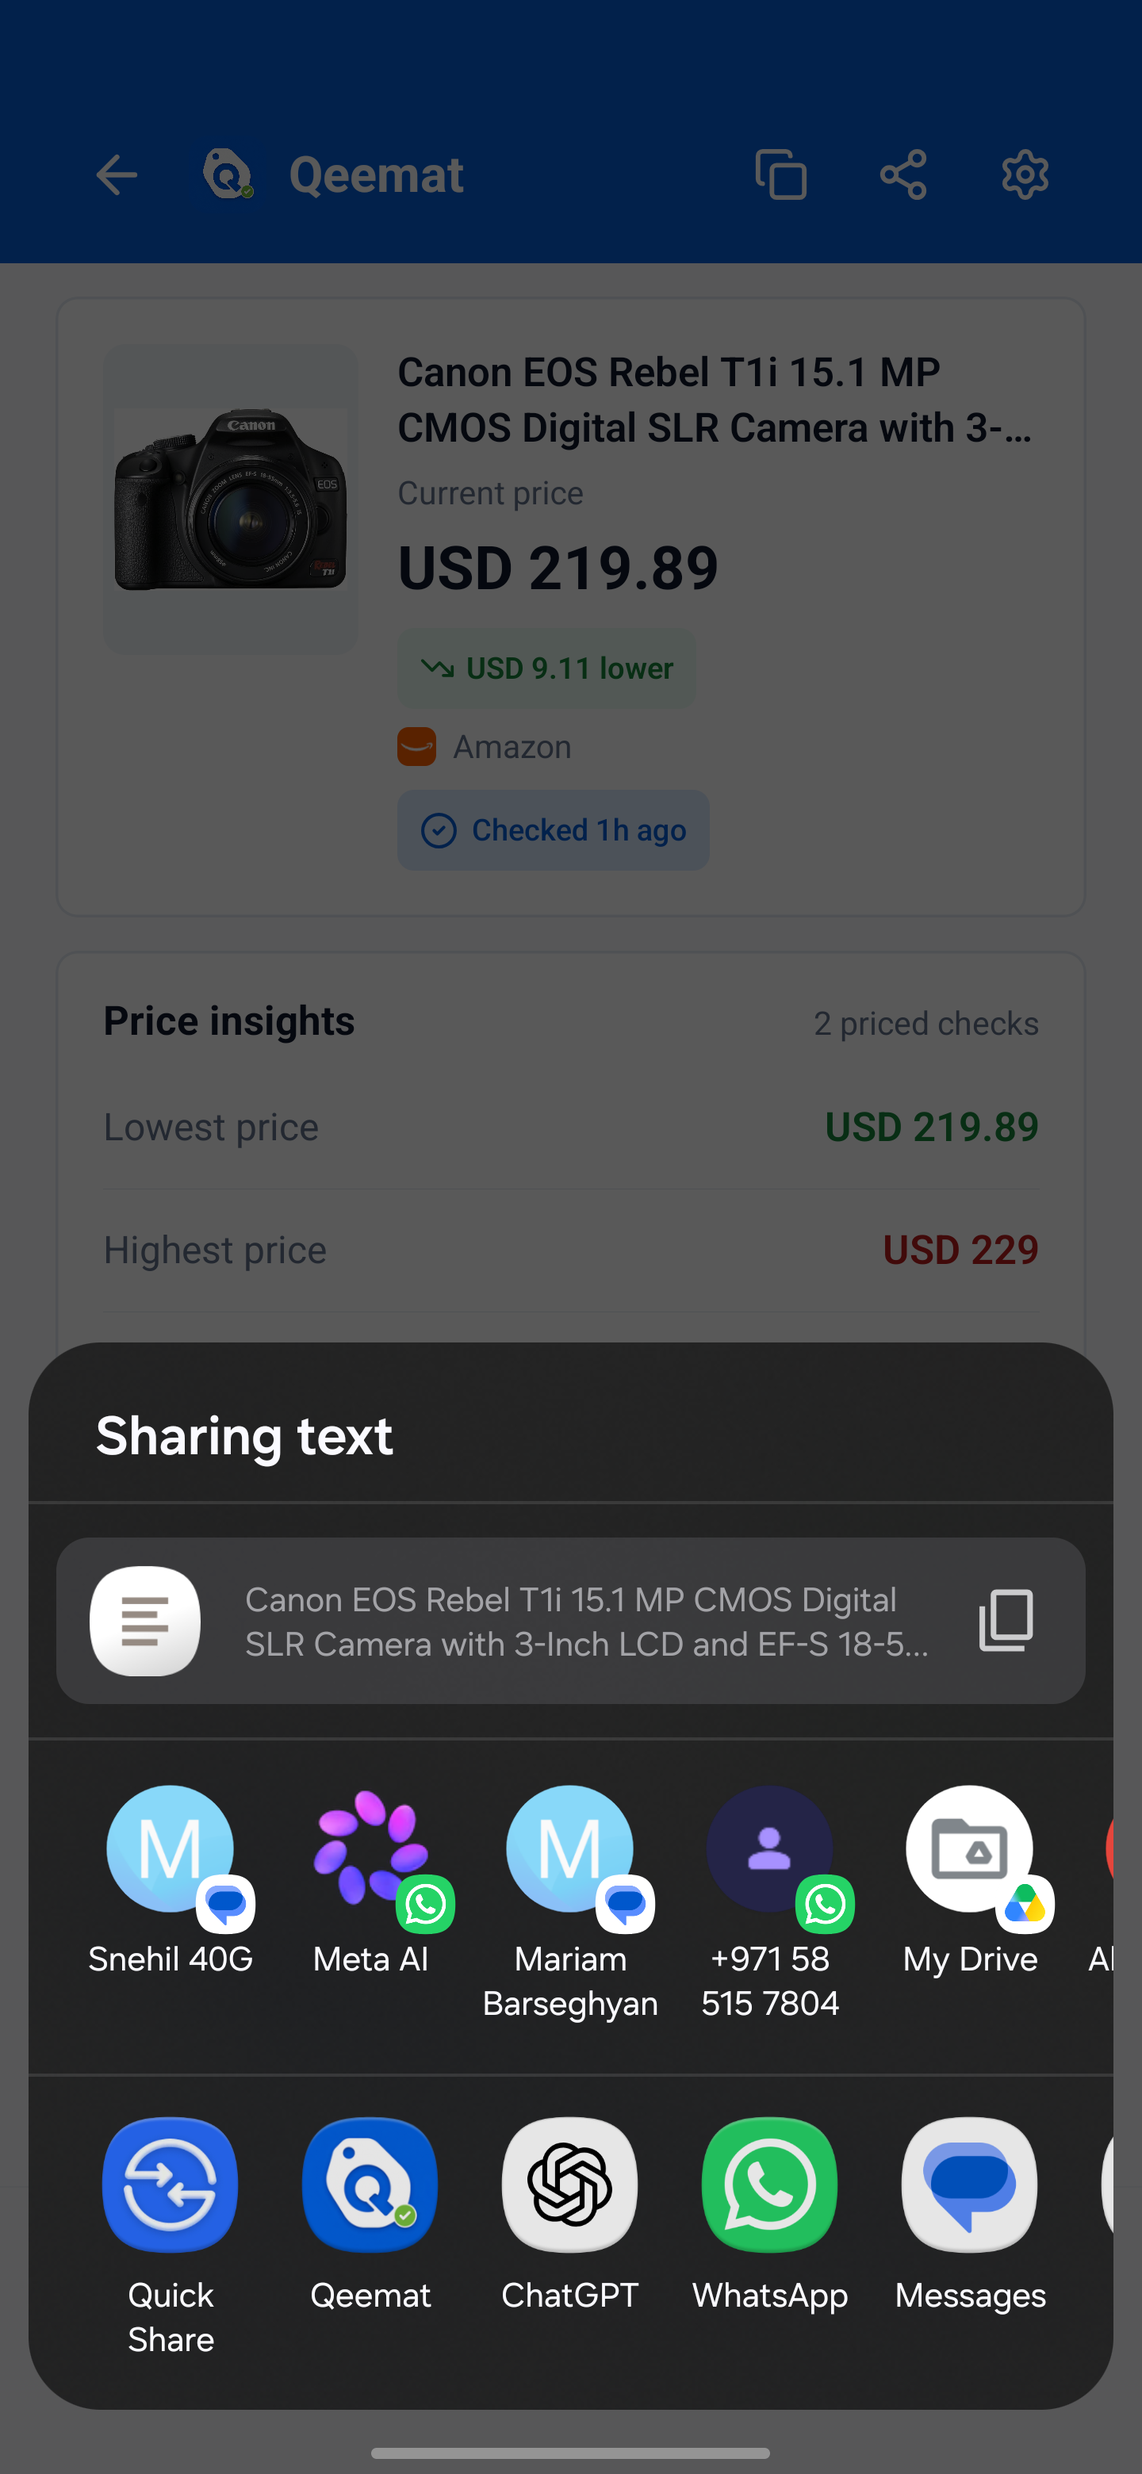
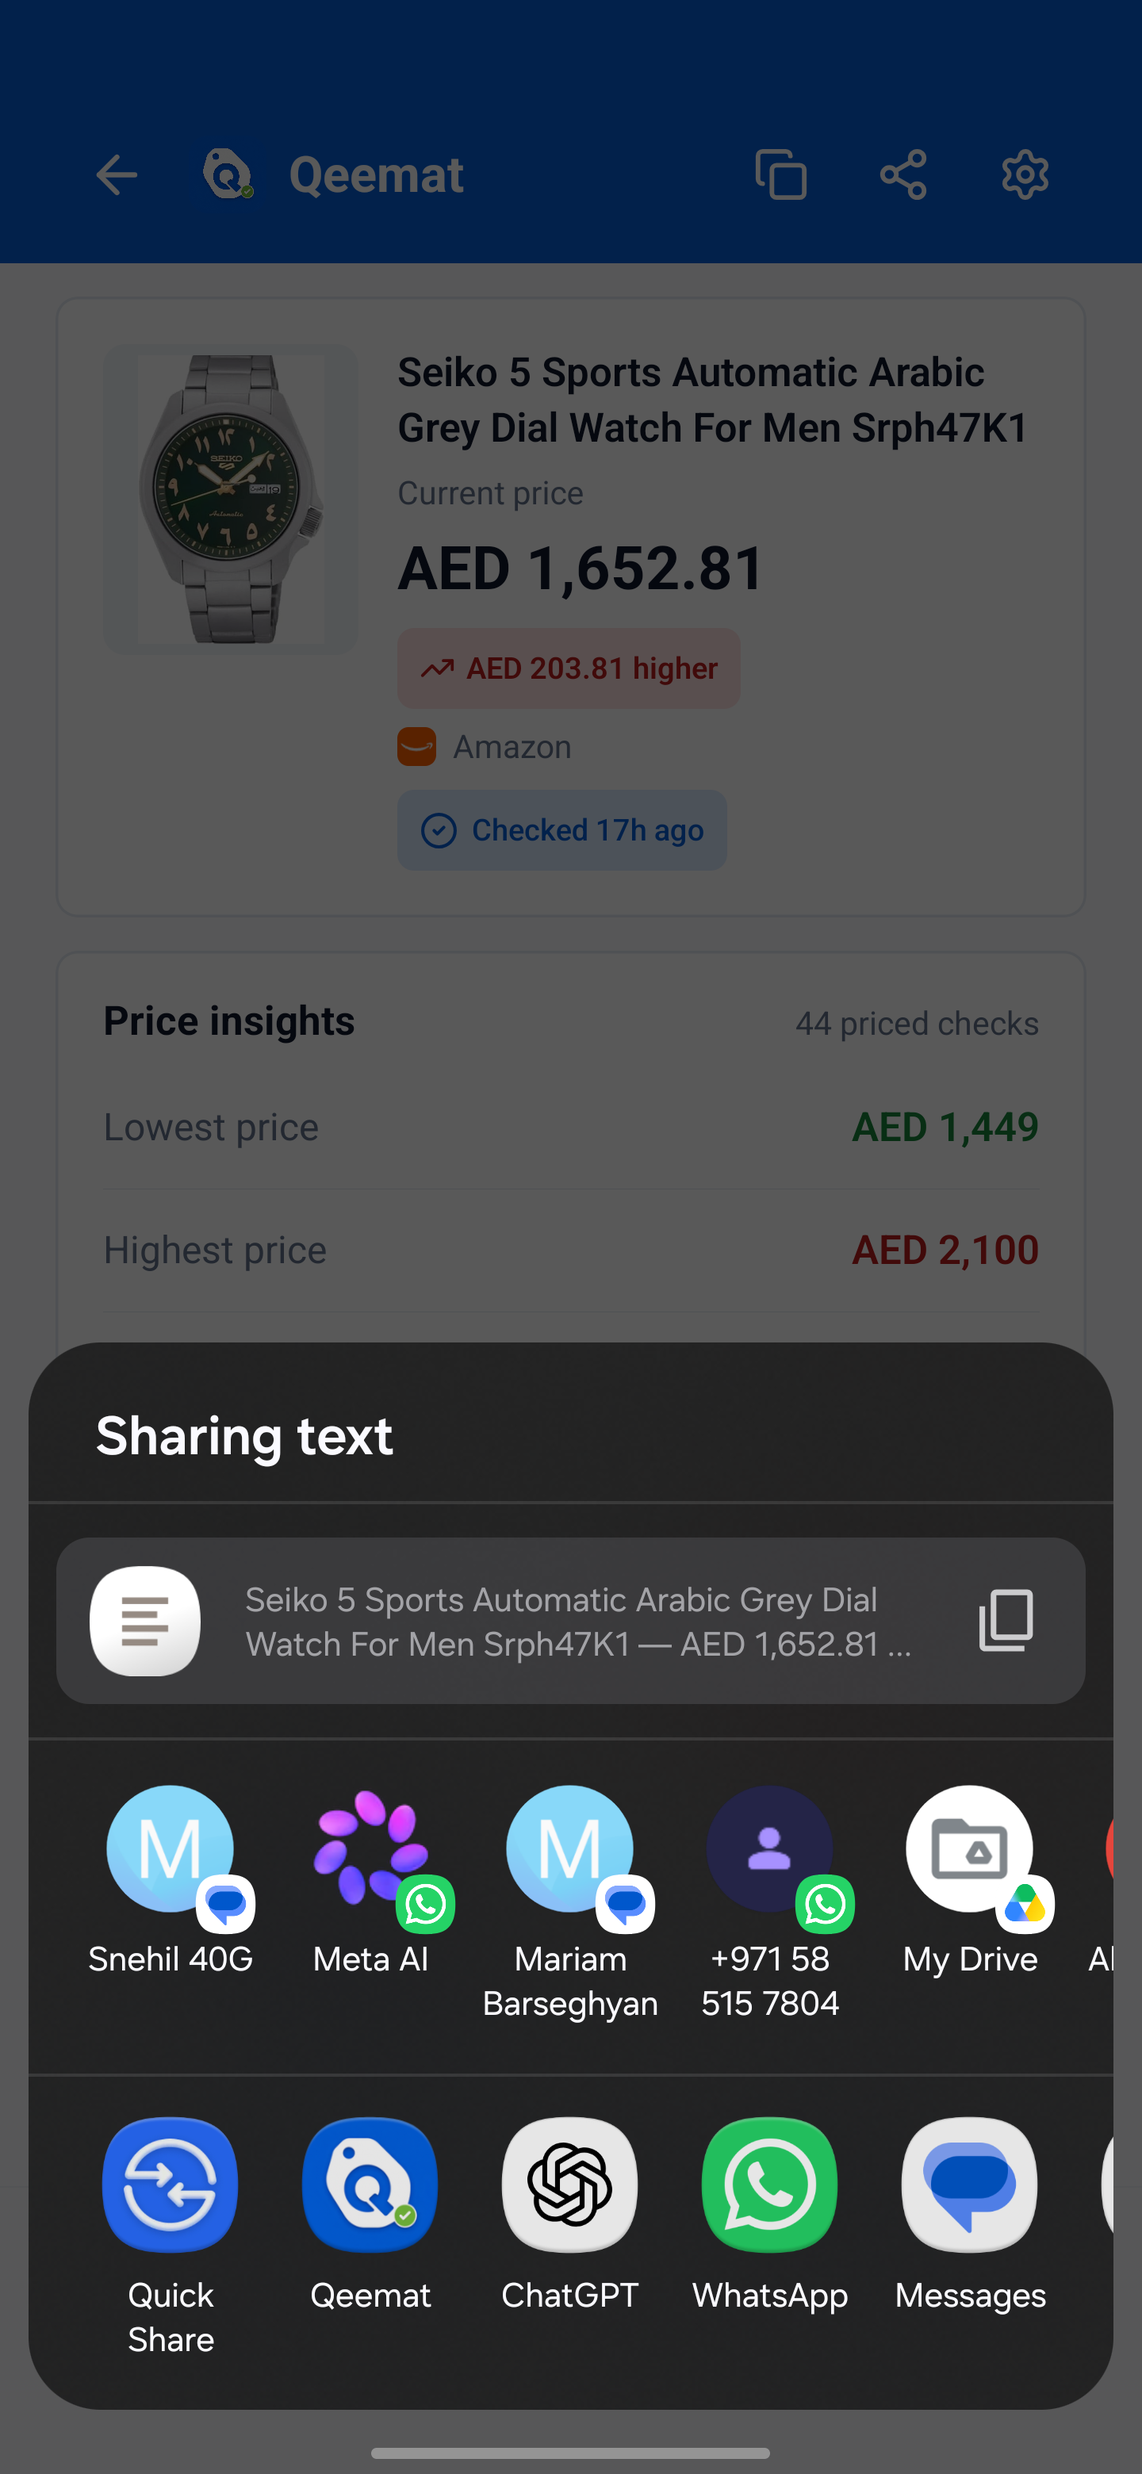
feat: label high and low prices on the chart

diff --git a/src/components/PriceChart.tsx b/src/components/PriceChart.tsx
@@ -137,6 +137,29 @@ export function PriceChart({ snapshots, currency }: PriceChartProps) {
           onPress={(event) => selectPointAt(event.nativeEvent.locationX)}
           style={styles.canvas}
         >
+          {max > min && chartSize.height > 0 ? (
+            <View pointerEvents="none" style={styles.priceLabels}>
+              {[
+                { key: 'high', y: padding },
+                { key: 'mid', y: height / 2 },
+                { key: 'low', y: height - padding }
+              ].map((tick) => {
+                const scale = Math.min(chartSize.width / width, chartSize.height / height);
+                const offset = (chartSize.height - height * scale) / 2;
+                const top = Math.max(0, Math.min(chartSize.height - 14, offset + tick.y * scale - 7));
+                const value = tick.key === 'high' ? max : tick.key === 'low' ? min : Math.round((max + min) / 2);
+                return (
+                  <AppText
+                    key={tick.key}
+                    muted
+                    style={[styles.axisPrice, { top }]}
+                  >
+                    {formatPrice(value, currency)}
+                  </AppText>
+                );
+              })}
+            </View>
+          ) : null}
         <Svg pointerEvents="none" viewBox={`0 0 ${width} ${height}`} width="100%" height="100%">
           <Defs>
             <LinearGradient id="priceFill" x1="0" y1="0" x2="0" y2="1">
@@ -213,18 +236,7 @@ export function PriceChart({ snapshots, currency }: PriceChartProps) {
         <AppText muted style={styles.axisLabel}>{formatAxisDate(points[0].checkedAt)}</AppText>
         <AppText muted style={styles.axisLabel}>{formatAxisDate(points[points.length - 1].checkedAt)}</AppText>
       </View>
-      {max > min ? (
-        <View style={styles.rangeRow}>
-          <View style={styles.rangeItem}>
-            <View style={[styles.rangeSwatch, styles.rangeHighSwatch]} />
-            <AppText muted style={[styles.rangeText, styles.rangeHighText]}>High {formatPrice(max, currency)}</AppText>
-          </View>
-          <View style={styles.rangeItem}>
-            <View style={[styles.rangeSwatch, styles.rangeLowSwatch]} />
-            <AppText muted style={[styles.rangeText, styles.rangeLowText]}>Low {formatPrice(min, currency)}</AppText>
-          </View>
-        </View>
-      ) : null}
+
       <AppText muted style={styles.hint}>Only points where the price changed are plotted. Dashed lines mark the high and low; drag across the chart to scrub through them; tap a point to inspect it.</AppText>
     </View>
   );
@@ -348,14 +360,15 @@ const styles = StyleSheet.create({
     fontSize: 12,
     textAlign: 'right'
   },
-  rangeRow: { flexDirection: 'row', alignItems: 'center', gap: 16, marginTop: 6 },
-  rangeItem: { flexDirection: 'row', alignItems: 'center', gap: 6 },
-  rangeSwatch: { width: 14, height: 2, borderRadius: 1 },
-  rangeHighSwatch: { backgroundColor: colors.red },
-  rangeLowSwatch: { backgroundColor: colors.green },
-  rangeText: { fontSize: 12 },
-  rangeHighText: { color: colors.red },
-  rangeLowText: { color: colors.green },  canvas: {
+  priceLabels: { ...StyleSheet.absoluteFillObject, alignItems: 'flex-end', justifyContent: 'flex-start' },
+  axisPrice: {
+    position: 'absolute',
+    right: 2,
+    backgroundColor: colors.surface,
+    borderRadius: 3,
+    paddingHorizontal: 3,
+    fontSize: 10
+  },  canvas: {
     height: 172
   },
   axis: {

diff --git a/src/components/__tests__/PriceChart.test.tsx b/src/components/__tests__/PriceChart.test.tsx
@@ -125,15 +125,22 @@ describe('PriceChart', () => {
     // Three price levels (10,000 -> 9,000 -> 10,500), not six checks.
     expect(tree!.root.findAllByType(Circle)).toHaveLength(3);
   });
-  it('marks the high and low with dashed guide lines and a range readout', () => {
+  it('marks the high and low with dashed guide lines and on-chart price labels', () => {
     let tree: renderer.ReactTestRenderer;
     act(() => { tree = renderer.create(<PriceChart snapshots={snapshots} currency="AED" />); });
+    act(() => {
+      tree!.root.findByProps({ accessibilityLabel: 'Price history chart' }).props.onLayout({
+        nativeEvent: { layout: { width: 320, height: 172 } }
+      });
+    });
 
     const guides = tree!.root.findAllByType(Line).filter((line) => line.props.strokeDasharray === '4 5');
     expect(guides).toHaveLength(2);
     expect(guides.map((line) => line.props.stroke)).toEqual([colors.red, colors.green]);
-    expect(renderedText(tree!)).toContain('High AED 105');
-    expect(renderedText(tree!)).toContain('Low AED 90');
+    const labelText = tree!.root.findAllByType(AppText).map((node) => [node.props.children].flat().join(''));
+    expect(labelText).toContain('AED 105');
+    expect(labelText).toContain('AED 97.50');
+    expect(labelText).toContain('AED 90');
   });
   it('uses the shared direction colors for chart points', () => {
     let tree: renderer.ReactTestRenderer;

diff --git a/design-qa.md b/design-qa.md
@@ -58,7 +58,7 @@ The product detail page now follows the Watchlist language instead of a separate
 - **About this item** is collapsed by default behind a summary disclosure (e.g. "Brand: ADIDAS · Store category: Short-sleeve jersey"); expanding shows the full field rows.
 - **Price snapshots** show the three most recent groups with **Show all N price groups** (and Show fewer), keeping the first view short while retaining full history. Consecutive failed checks with the same error collapse behind **+N earlier failed checks**, matching the existing no-change grouping; expanding reveals each failure.
 - Removed the legacy 18-unit top margin from the detail captions; spacing inside the summary now follows the same 4-unit stack used by Watchlist cards.
-- The price chart now supports **horizontal drag-to-scrub**: dragging across the chart updates the selected price, date and change badge continuously; tapping still selects a point, and vertical page scroll is unaffected. [chart scrub](docs/assets/product-detail-2026-11-14/chart-scrub.png)\n- The chart plots **one point per actual price level** — repeated checks at the same price no longer create scrubbing stops — so dragging jumps only between dates where the price changed. [change-only chart](docs/assets/product-detail-2026-11-14/chart-change-points.png); when fewer than two price levels exist it explains that instead.\n- Stock-style **high/low dashed guide lines** now mark the range, with a compact `High … / Low …` readout under the chart. [chart guides](docs/assets/product-detail-2026-11-14/chart-guides.png)\n- The detail banner has a separate **Share product** action that opens the native Android share sheet with a message ending in **Tracked with Qeemat**; Copy product link still copies only the URL. [native share sheet](docs/assets/product-detail-2026-11-14/native-share-sheet.png)\n- Evidence: [before](docs/assets/product-detail-2026-11-14/before.png), [after](docs/assets/product-detail-2026-11-14/after.png), [expanded fields](docs/assets/product-detail-2026-11-14/about-expanded.png), [collapsed failed checks](docs/assets/product-detail-2026-11-14/collapsed-failures.png).
+- The price chart now supports **horizontal drag-to-scrub**: dragging across the chart updates the selected price, date and change badge continuously; tapping still selects a point, and vertical page scroll is unaffected. [chart scrub](docs/assets/product-detail-2026-11-14/chart-scrub.png)\n- The chart plots **one point per actual price level** — repeated checks at the same price no longer create scrubbing stops — so dragging jumps only between dates where the price changed. [change-only chart](docs/assets/product-detail-2026-11-14/chart-change-points.png); when fewer than two price levels exist it explains that instead.\n- Stock-style **high/low dashed guide lines** mark the range, and small **price labels sit directly on the chart** at the high, mid and low positions. The duplicate High/Low readout under the chart was removed because the Price insights card already carries max/min. [on-chart price labels](docs/assets/product-detail-2026-11-14/chart-price-labels.png)\n- The detail banner has a separate **Share product** action that opens the native Android share sheet with a message ending in **Tracked with Qeemat**; Copy product link still copies only the URL. [native share sheet](docs/assets/product-detail-2026-11-14/native-share-sheet.png)\n- Evidence: [before](docs/assets/product-detail-2026-11-14/before.png), [after](docs/assets/product-detail-2026-11-14/after.png), [expanded fields](docs/assets/product-detail-2026-11-14/about-expanded.png), [collapsed failed checks](docs/assets/product-detail-2026-11-14/collapsed-failures.png).
 - Verified on the Samsung SM-S928B release build: first view now shows the summary, insights and the start of the price chart without scrolling; About expands and collapses; Show all snapshots reveals the full grouped list.
 **Palette follow-up (14 November 2026):** price rises switched from amber to red following the Activity review (the amber badge read as orange). `colors.red`/`redSoft` now use `#B91C1C`/`#FEE2E2` — the same red is used for negative price movement and failures, while amber remains reserved for out-of-stock warnings. This supersedes the 13 November amber-rise notes above. Red on red-soft measures 5.30:1 (WCAG AA), and the change applies to `PriceDirectionBadge`, Activity, Watchlist/Search cards, product-detail snapshots and the chart legend. [Watchlist rise badge](docs/assets/activity-redesign/price-rise-red-watchlist.png)
 

diff --git a/docs/current-state.md b/docs/current-state.md
@@ -62,7 +62,7 @@ The site registry is `src/domain/sites.ts`. It controls hostnames, enabled statu
 
 - The add flow detects supported stores, replaces the store list with a single detected-store status for valid links, and brings the parsed result into view before saving. The full supported-store list is collapsed behind a disclosure below `Find product`. As soon as a product is parsed, the flow checks the watchlist: an exact duplicate shows an inline **Duplicate product** warning with an **Open product** action and disables **Confirm Tracking**; a different option of an already-tracked product shows an **Adding another option** notice and is saved as a separate tracker. A save-time duplicate check remains as a fallback. It then collects check preference, alert mode, optional target price, optional minimum price-drop threshold, back-in-stock preference, and a local folder. When a page exposes reliable variant data, the user must select an in-stock source option such as size before saving; that exact option is shown on cards and details and is used for later checks. Centrepoint size choices use the current product URL and source button ID, while color-only pages retain the current color and product route without guessing neighboring colors. Namshi size choices use the current product/color URL. The Deal builds source-provided color/size candidates, then verifies the selected combination against its exact variation endpoint before saving; a response that does not return the requested attributes is rejected. Sharaf DG linked configurations retain the source URL that preselects the exact item. Sephora and Faces shade labels remain page-level because their initial pages do not provide complete per-shade stock state. Android browsers can share a product URL directly to Qeemat, which opens this flow and automatically finds the product so the user can choose its variant and tracking settings.
 - AYM excludes the daily option in the picker because its effective minimum interval is 72 hours. Existing daily AYM products are clamped in tracking settings.
-- Product detail uses the Watchlist visual language: a blue banner with back and copy/settings actions, then a compact summary card (image, 2-line title, current or last-known price with a direction badge, retailer, variant/folder line and check status). Price insights are one flat card with separated Lowest/Highest/Average rows, About this item is collapsed behind a summary disclosure, and price snapshots show the three most recent groups with **Show all** for the rest. The price chart plots only the points where the price actually changed (repeated checks at the same price do not add points), marks the high and low with dashed guide lines and a High/Low readout, supports dragging across it to scrub the selected price/date/change, tapping still selects a point, identical consecutive failed snapshots collapse behind a count, and `Check now`, `Open link`, `Copy product link` (URL only) and `Share product` (opens the native share sheet with a price update ending in Tracked with Qeemat) remain. Tracking settings include a per-product **Active** switch that pauses checks without removing the product.
+- Product detail uses the Watchlist visual language: a blue banner with back and copy/settings actions, then a compact summary card (image, 2-line title, current or last-known price with a direction badge, retailer, variant/folder line and check status). Price insights are one flat card with separated Lowest/Highest/Average rows, About this item is collapsed behind a summary disclosure, and price snapshots show the three most recent groups with **Show all** for the rest. The price chart plots only the points where the price actually changed (repeated checks at the same price do not add points), marks the high and low with dashed guide lines and on-chart high/mid/low price labels, supports dragging across it to scrub the selected price/date/change, tapping still selects a point, identical consecutive failed snapshots collapse behind a count, and `Check now`, `Open link`, `Copy product link` (URL only) and `Share product` (opens the native share sheet with a price update ending in Tracked with Qeemat) remain. Tracking settings include a per-product **Active** switch that pauses checks without removing the product.
 - Snapshot sources are presented as `Check now`, `Recheck all`, or `Background`.
 
 ### Settings, onboarding, and navigation

diff --git a/DESIGN.md b/DESIGN.md
@@ -139,7 +139,7 @@ Treat check freshness, price direction, availability and failure as separate sig
 - **Navigation:** the app has a manual Android tab and route stack. Preserve established navigation and Android back behavior.
 - **Search cards:** listing cards serve discovery, while Watchlist cards serve monitoring. Share underlying visual principles without forcing identical layouts. **Shipped (13 November 2026):** discovery cards use a compact outline Track action instead of a solid primary button on every card, so the card content leads, and missing or failed listing images fall back to a neutral placeholder. A previously observed price change renders as the same green/red direction badge used by Watchlist cards. A fuller Search hierarchy pass remains **intended**.
 - **Task-first flows:** **Shipped (13 November 2026):** Add keeps **Find product** directly after the URL field and collapses the supported-store list behind a disclosure; Settings keeps notifications, battery and background time first and collapses run diagnostics and the supported-store list; tracking settings exposes a per-product **Active** switch, and the tab stack stays mounted so Watchlist and Search keep their state after opening a product or the Add flow.
-- **Product detail:** **Shipped (14 November 2026):** matches the Watchlist language — a blue banner with back/copy/settings actions, then a compact summary card (image, 2-line title, price with direction badge, retailer, variant/folder and check status). Price insights are one flat card with divided Lowest/Highest/Average rows; **About this item** is collapsed behind a summary disclosure; price snapshots show the three most recent groups with **Show all**, identical consecutive failures collapse behind a count, the chart plots only actual price-change points, marks the high and low with dashed guide lines and a range readout, and supports horizontal drag-to-scrub selection; detail also has separate Copy link and native Share actions. Snapshots color a lower price green and a higher price red. Further chart hierarchy refinement is **intended**.
+- **Product detail:** **Shipped (14 November 2026):** matches the Watchlist language — a blue banner with back/copy/settings actions, then a compact summary card (image, 2-line title, price with direction badge, retailer, variant/folder and check status). Price insights are one flat card with divided Lowest/Highest/Average rows; **About this item** is collapsed behind a summary disclosure; price snapshots show the three most recent groups with **Show all**, identical consecutive failures collapse behind a count, the chart plots only actual price-change points, marks the high and low with dashed guide lines and on-chart high/mid/low price labels, and supports horizontal drag-to-scrub selection; detail also has separate Copy link and native Share actions. Snapshots color a lower price green and a higher price red. Further chart hierarchy refinement is **intended**.
 
 ## Accessibility
 
